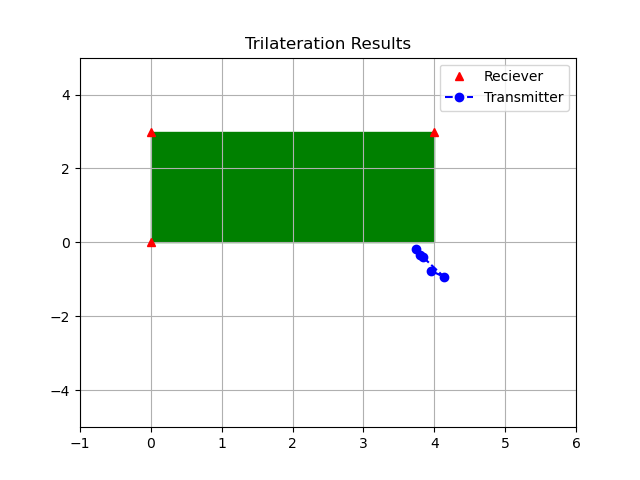
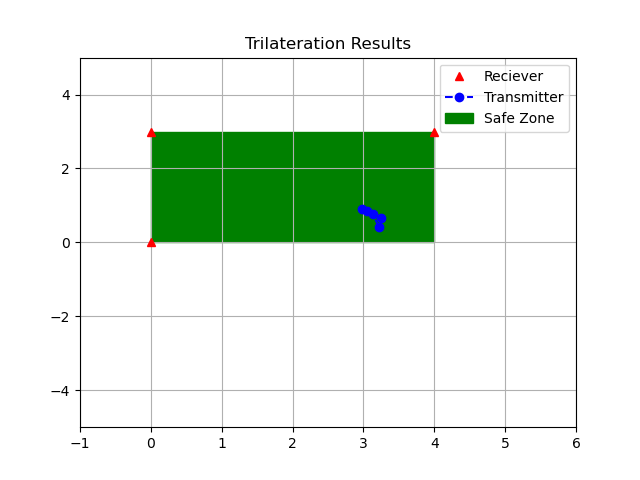
wip

Changed region(s): [[0.6875, 0.2188, 0.875, 0.2812], [0.625, 0.5, 0.7188, 0.5938], [0.5625, 0.4062, 0.625, 0.5]]

diff --git a/Analytics/LocationTracking.py b/Analytics/LocationTracking.py
@@ -113,7 +113,7 @@ class XbeeTracker:
         fig = plt.figure() 
         ax = fig.add_subplot(111) 
         plt.title('Trilateration Results')
-        ax.add_patch(Rectangle((Xa,Ya),4,3,edgecolor='green', facecolor = 'green',fill=True))
+        ax.add_patch(Rectangle((Xa,Ya),4,3,edgecolor='green', facecolor = 'green',fill=True, label = 'Safe Zone'))
         #X coordinates, Y coordinates
         plt.plot([Xa,Xb,Xc], [Ya,Yb,Yc], 'r^', label = 'Reciever')
         #X coordinates, Y coordinates
@@ -154,7 +154,7 @@ class XbeeTracker:
             j += 1
 
         self.body = ''.join(msg)
-        print(self.body)
+        #print(self.body)
 
 
     def Notification(self):
@@ -164,13 +164,25 @@ class XbeeTracker:
             msg['From'] = EMAIL_ADDRESS
             msg['To'] = RECIEVER
             msg.set_content(self.body)
+            print('EMERGENCY Event Detected Capstone Location Tracker\n')
+            print(self.body)
         
         else:
+            j = 0
+            location_text = []
+            size_x = len(self.x_coord)
+            size_y = len(self.y_coord)
+            while j < size_x and j < size_y:
+                location_text.append('(%f,%f) No problems detected, Transmitter in Safe Zone\n' %(self.x_coord[j],self.y_coord[j]))
+                j += 1
+            email_body = ''.join(location_text)
             msg = EmailMessage()
-            msg['Subject'] = 'Capstone Location Tracker'
+            msg['Subject'] = 'No problems detected Capstone Location Tracker'
             msg['From'] = EMAIL_ADDRESS
             msg['To'] = RECIEVER
-            msg.set_content('No problems detected')
+            msg.set_content(email_body)
+            print('No problems detected Capstone Location Tracker\n')
+            print(email_body)
 
         with open(IMAGE_NAME, 'rb') as f:
             file_data = f.read()
@@ -280,5 +292,7 @@ def kalman_filter(signal, A, H, Q, R):
 
     return predicted_signal
 
-TX = XbeeTracker(r'RawData\Elevated(4,0)_5.txt')
+TX = XbeeTracker(r'RawData\Elevated(4,0)_2.txt')
+#TX = XbeeTracker(r'RawData\Elevated(4,0)_6.txt')
+#TX = XbeeTracker(r'RawData\Elevated(4,0)_5.txt')
 TX.Trilateration()
